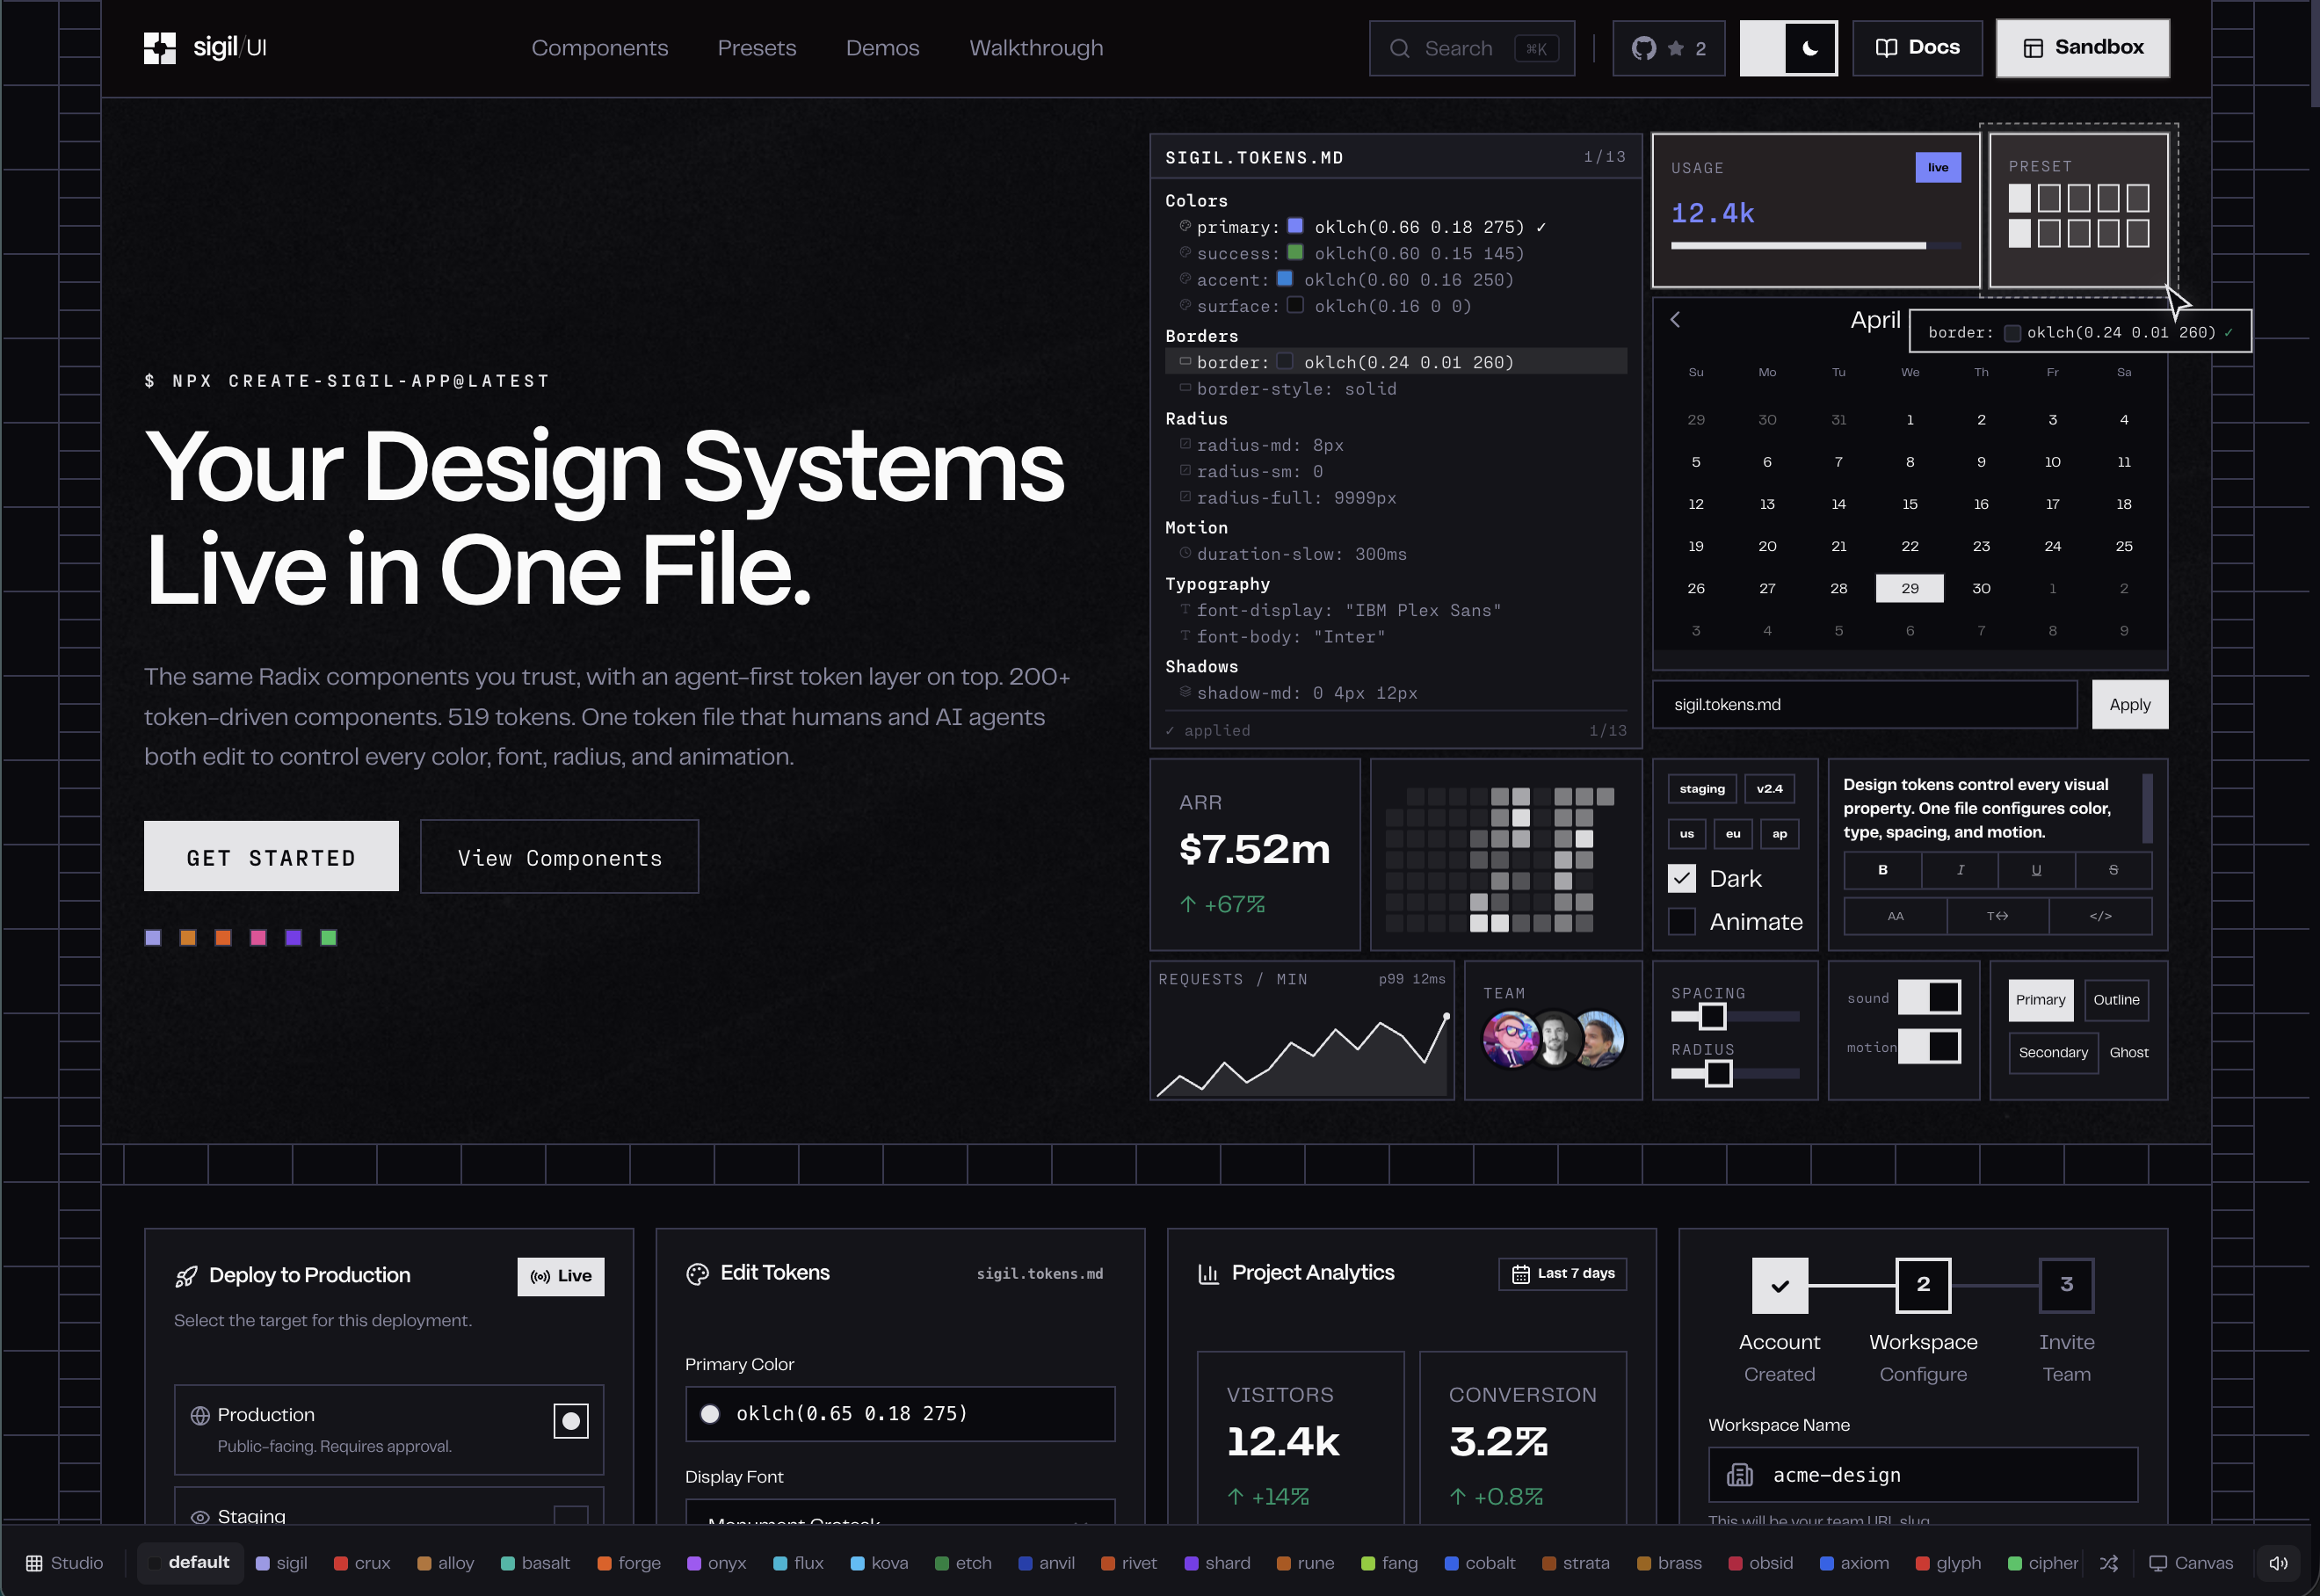
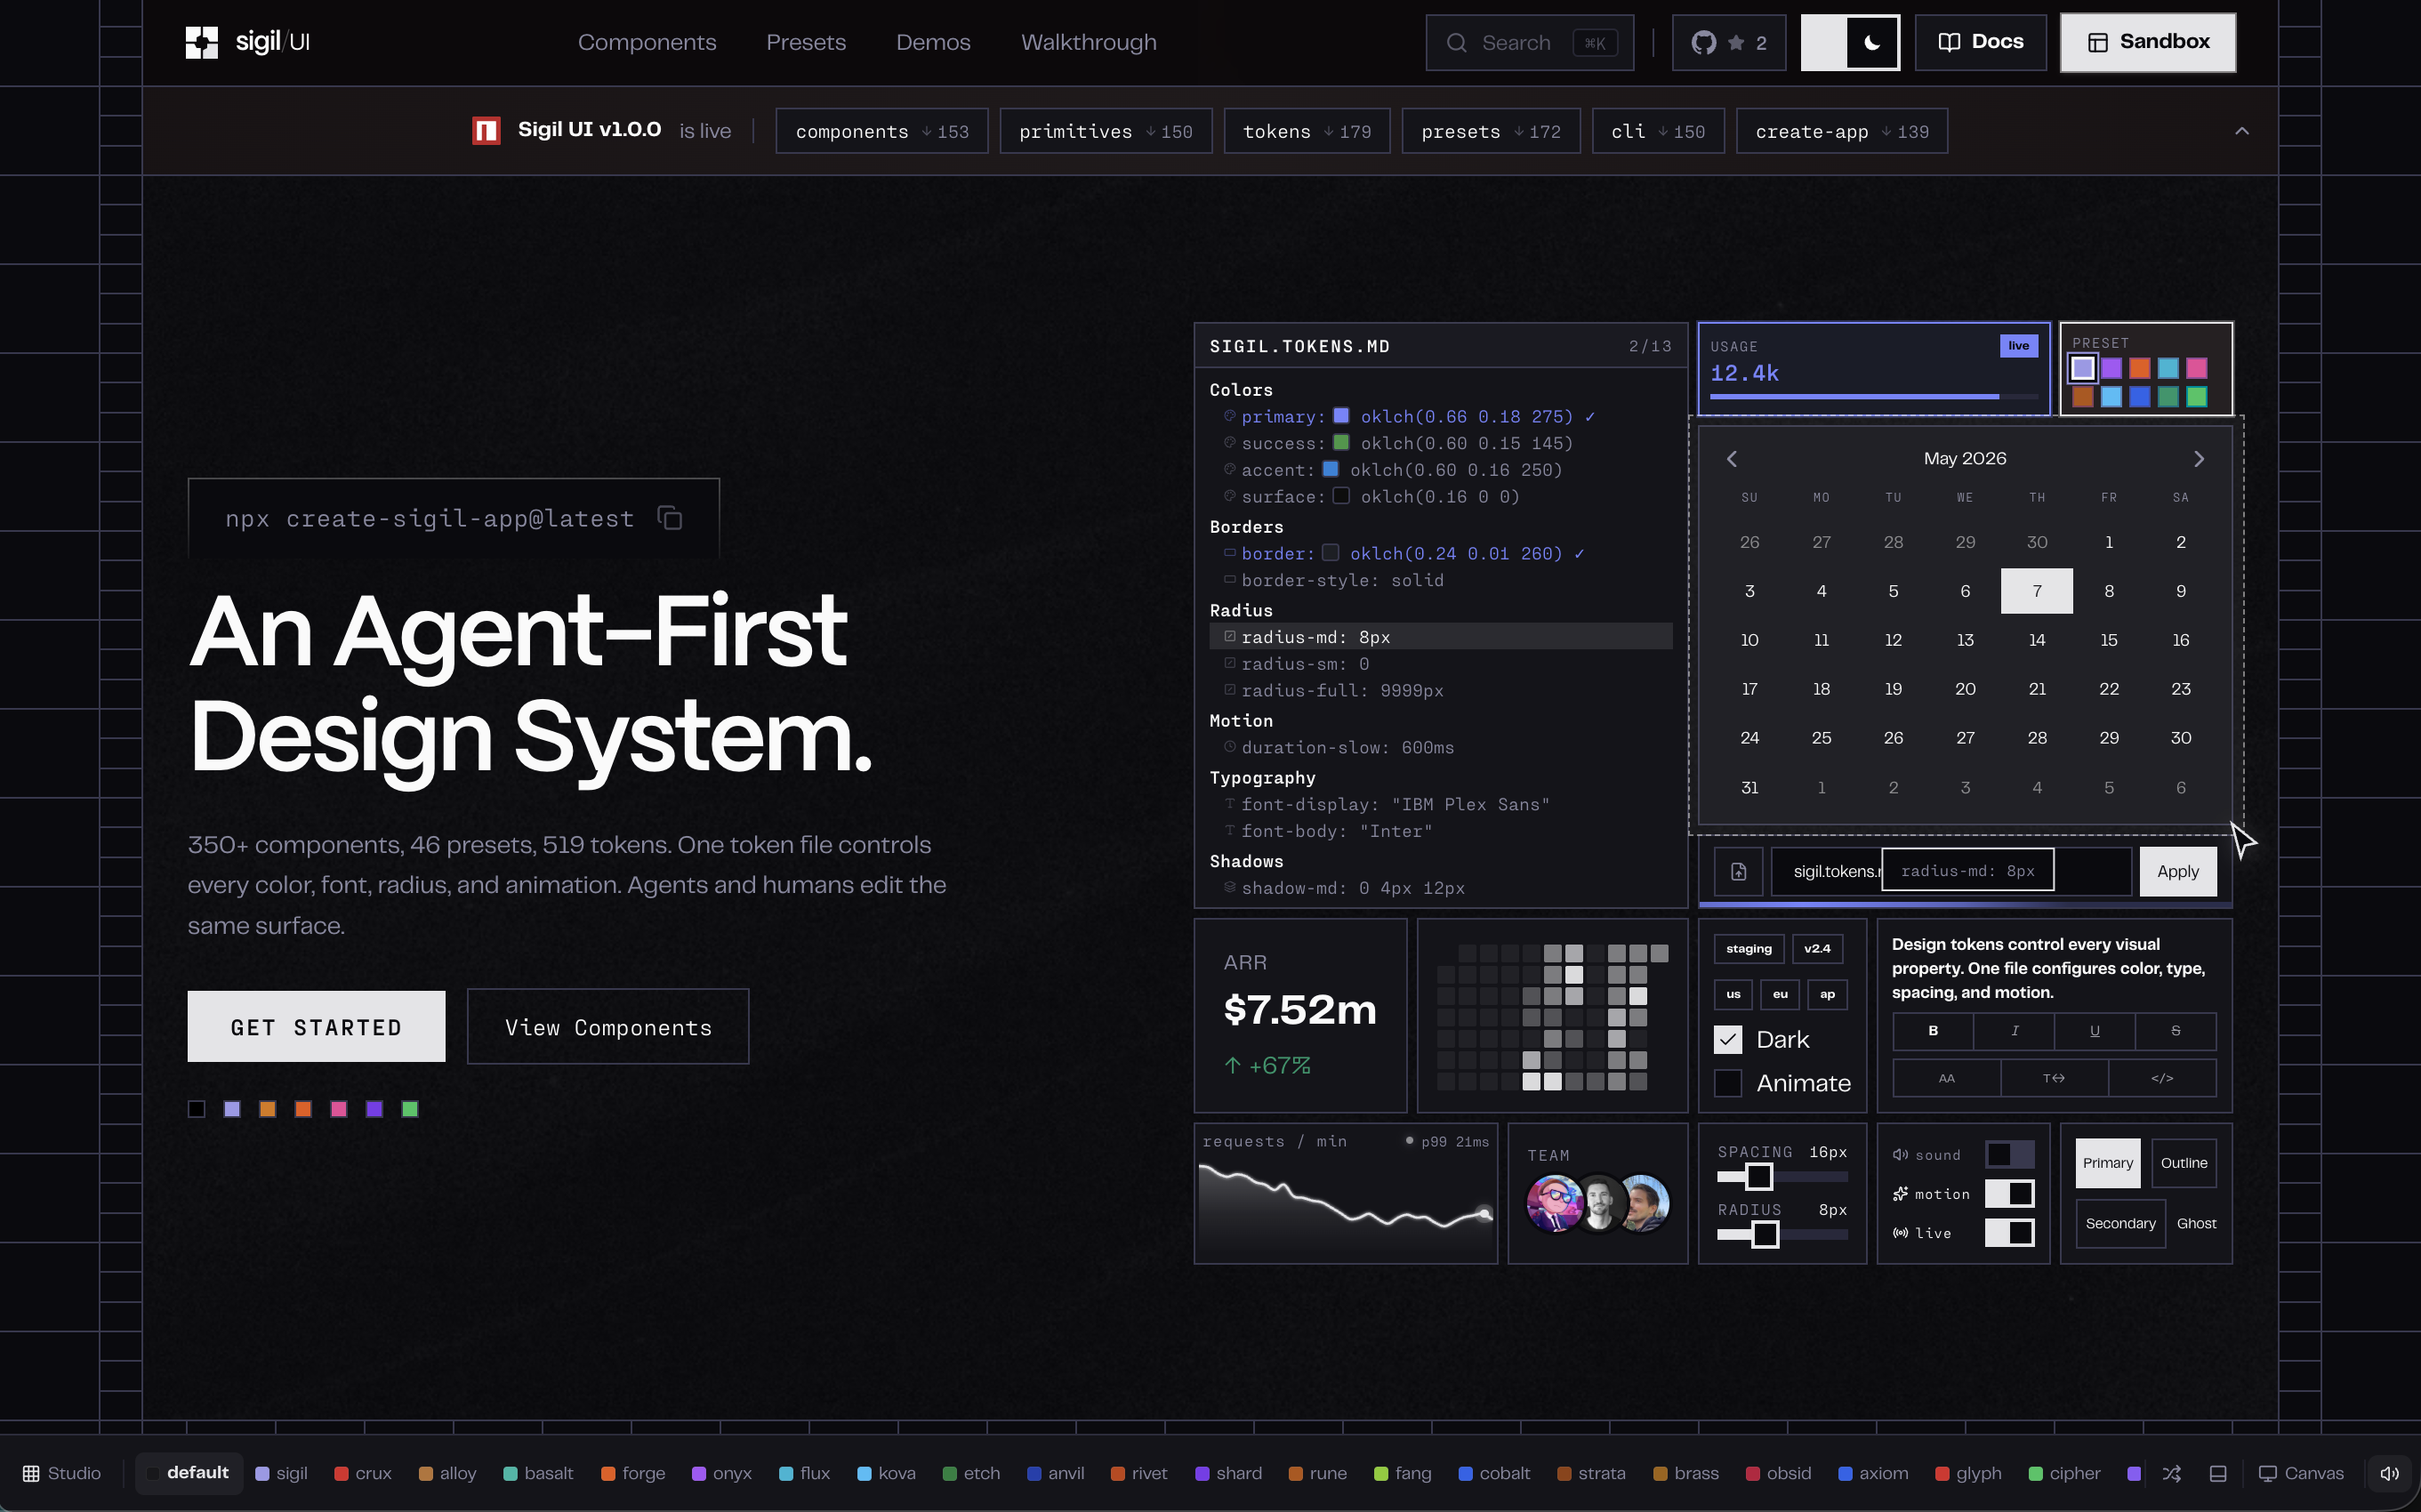
[Feat] Update bio and images for loop and sigil

diff --git a/src/components/team/teamUI.tsx b/src/components/team/teamUI.tsx
@@ -1335,7 +1335,7 @@ const TrainerInfoPanel = ({
                   </span>
                 </div>
                 <p className="text-[11px] leading-relaxed text-slate-600 dark:text-slate-400">
-                  {`I build because I love building. Engineering at a startup is the most "work" I've done in my life, yet the first time the work feels like the thing I'd be doing anyway at 3am on a Saturday. Hackathons, personal projects, games, open-source contributions, I've always done my best work when nobody assigned it. When you want it bad enough, you don't have to force yourself to keep going. You have to force yourself to stop.`}                </p>
+                  {`My best work has always been the stuff nobody assigned: hackathons, games, open source, 3am rabbit holes. When you want it bad enough, you don't force yourself to keep going. You force yourself to stop.`}                </p>
               </div>
             </UpgradedClippedContainer>
           </motion.div>